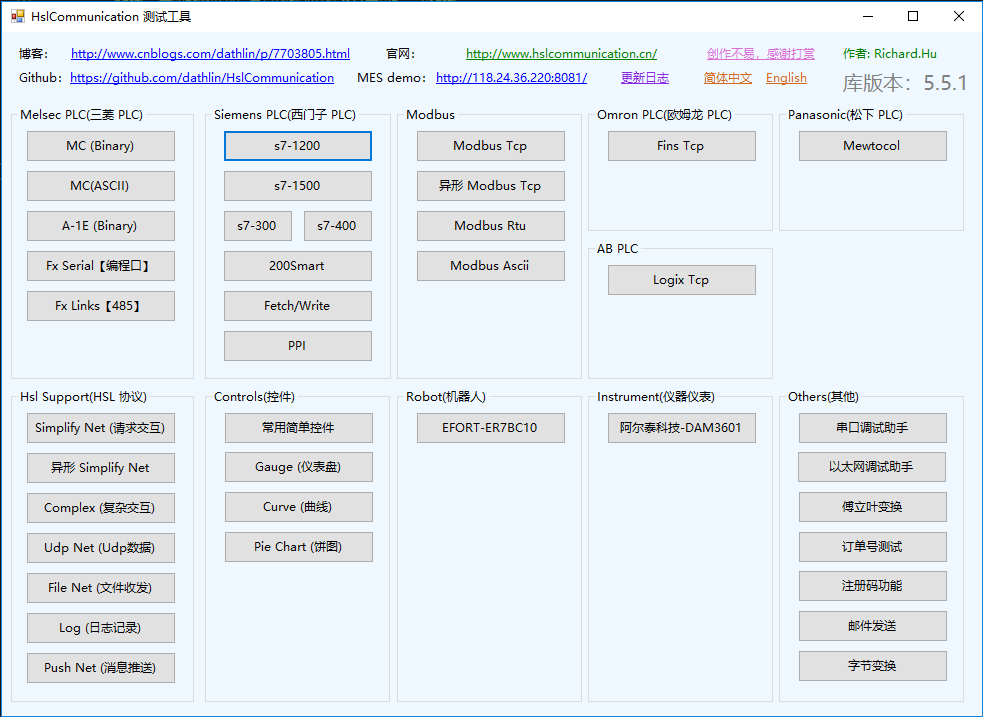
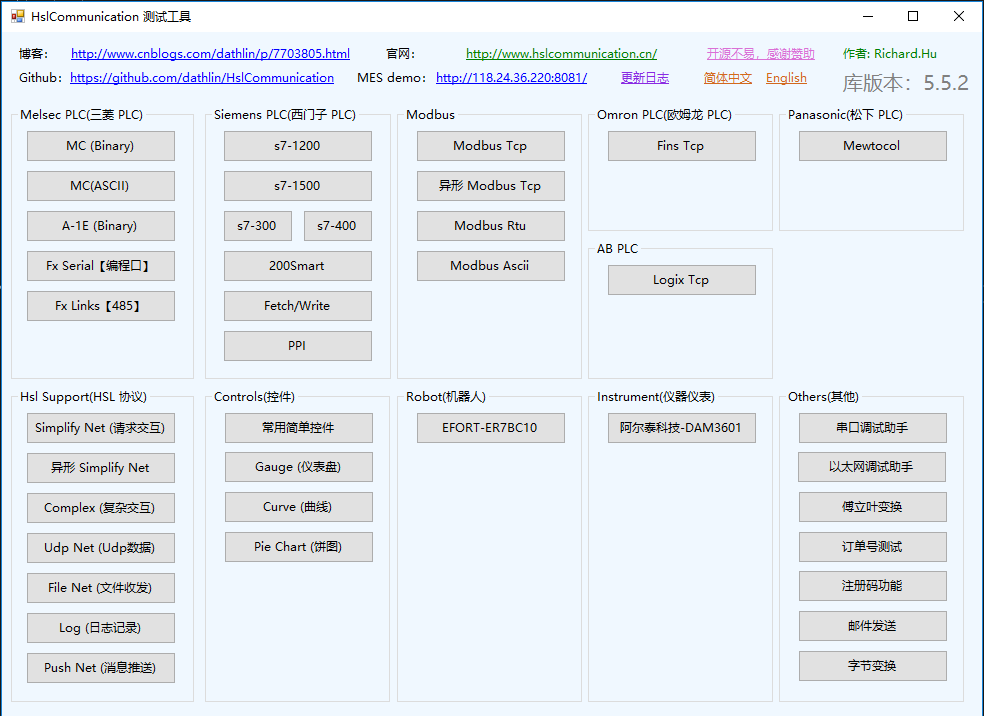
feat(readme): update

diff --git a/HslCommunication_Net45/BasicFramework/FormSupport.Designer.cs b/HslCommunication_Net45/BasicFramework/FormSupport.Designer.cs
@@ -44,27 +44,27 @@
             this.label1.AutoSize = true;
             this.label1.Location = new System.Drawing.Point(32, 392);
             this.label1.Name = "label1";
-            this.label1.Size = new System.Drawing.Size(548, 17);
+            this.label1.Size = new System.Drawing.Size(608, 17);
             this.label1.TabIndex = 1;
-            this.label1.Text = "如果这个组件真的帮到了你，那么非常感谢您的支持，个人打赏，请视个人能力选择金额，感谢支持。";
+            this.label1.Text = "如果这个组件真的帮到了你或你们公司，那么非常感谢您的支持，个人打赏，请视个人能力选择金额，感谢支持。";
             // 
             // label3
             // 
             this.label3.AutoSize = true;
-            this.label3.Location = new System.Drawing.Point(32, 474);
+            this.label3.Location = new System.Drawing.Point(32, 484);
             this.label3.Name = "label3";
             this.label3.Size = new System.Drawing.Size(591, 17);
             this.label3.TabIndex = 3;
-            this.label3.Text = "如果您的公司使用了本产品，那么非常感谢对本产品的信任，企业打赏或是赞助请专门联系VIP群，或是作者。";
+            this.label3.Text = "如果您的公司使用了本产品，那么非常感谢对本产品的信任，企业赞助或是合作请专门联系VIP群，或是作者。";
             // 
             // label4
             // 
             this.label4.AutoSize = true;
-            this.label4.Location = new System.Drawing.Point(371, 516);
+            this.label4.Location = new System.Drawing.Point(340, 518);
             this.label4.Name = "label4";
-            this.label4.Size = new System.Drawing.Size(327, 17);
+            this.label4.Size = new System.Drawing.Size(363, 17);
             this.label4.TabIndex = 4;
-            this.label4.Text = "作者：Richard.Hu 上图为支付宝账户的收钱码，金额自定义";
+            this.label4.Text = "作者：Richard.Hu 上图为支付宝和微信账户的收钱码，金额自定义";
             // 
             // label5
             // 
@@ -123,7 +123,7 @@
             this.Margin = new System.Windows.Forms.Padding(3, 4, 3, 4);
             this.Name = "FormSupport";
             this.StartPosition = System.Windows.Forms.FormStartPosition.CenterParent;
-            this.Text = "感谢支持";
+            this.Text = "开源不易，如果您使用了本类库，感谢赞助";
             ((System.ComponentModel.ISupportInitialize)(this.pictureBox2)).EndInit();
             ((System.ComponentModel.ISupportInitialize)(this.pictureBox1)).EndInit();
             this.ResumeLayout(false);

diff --git a/TestProject/HslCommunicationDemo/FormLoad.cs b/TestProject/HslCommunicationDemo/FormLoad.cs
@@ -361,7 +361,7 @@ namespace HslCommunicationDemo
             if(language == 1)
             {
                 label20.Text = "作者: Richard.Hu";
-                linkLabel2.Text = "创作不易，感谢打赏";
+                linkLabel2.Text = "开源不易，感谢赞助";
                 label3.Text = "库版本：" + HslCommunication.BasicFramework.SoftBasic.FrameworkVersion.ToString( );
                 button19.Text = "异形 Modbus Tcp";
                 button24.Text = "串口调试助手";

diff --git a/TestProject/HslCommunicationDemo/FormLoad.Designer.cs b/TestProject/HslCommunicationDemo/FormLoad.Designer.cs
@@ -359,7 +359,7 @@
             this.linkLabel2.Size = new System.Drawing.Size(116, 17);
             this.linkLabel2.TabIndex = 6;
             this.linkLabel2.TabStop = true;
-            this.linkLabel2.Text = "创作不易，感谢打赏";
+            this.linkLabel2.Text = "开源不易，感谢赞助";
             this.linkLabel2.Click += new System.EventHandler(this.linkLabel2_Click);
             // 
             // groupBox4
